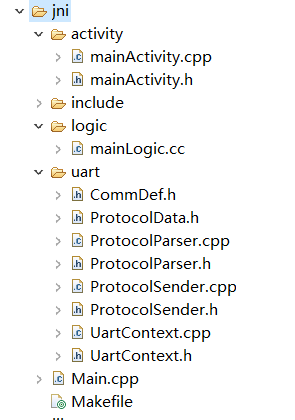
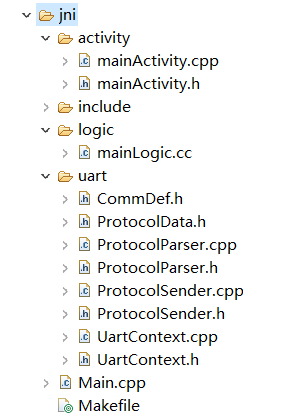
update doc
update doc

Changed region(s): [[0.061, 0.0, 0.8237, 1.0], [0.1831, 0.7794, 0.2136, 0.8106]]

diff --git a/docs/how_to_compile_flythings.md b/docs/how_to_compile_flythings.md
@@ -1,0 +1,107 @@
+---
+layout: default
+---
+# 如何编译FlyThings项目
+编译FlyThings项目十分简单。根据操作方式的不同，如下有三种方式可以编译。  
+## 1.  从项目资源管理器选择编译   
+具体步骤是： 在项目资源管理器中，左键选中需要编译的项目名，然后右键，在弹出菜单中，选择 **编译FlyThings** 选项即可自动编译该项目。  操作的动画如下：  
+
+ ![从上下文菜单选择编译](assets/compile_from_context_menu.gif)  
+## 2. 通过工具栏选择编译  
+在软件顶部的工具栏上有编译的快捷方式。 同样，先在项目资源管理器中，左键选中需要编译的项目名，然后再工具栏上找到 ![](assets/compile_from_toolbar.png) 该绿色三角符号按钮，点击它，即可编译选中的项目。
+
+## 3. 通过快捷键编译
+你可能在上面的两个步骤中，已经注意到了编译的快捷键，也就是 **Ctrl + Alt + Z**，强烈推荐使用该方式编译。 在编辑了代码后，直接 **Ctrl + Alt + Z** 快速完成编译，十分方便。
+
+
+# 如何清理项目
+在项目编译过后，通常会留下些编译的目标文件和中间文件。比如 **libs** 和 **obj**文件夹 
+，它们的存在是为了加快编译速度，达到增量编译。
+
+![](assets/mark_libs_obj.png)  
+你可以手动删除它们，或者通过菜单来自动清理。
+* 手动删除  
+ 先选中需要删除的文件夹，右键，在弹出菜单中，选择 **删除** 选项。
+ 
+ ![手动删除文件夹](assets/delete_folder.gif)
+ 
+* 自动清理  
+如果总是手动执行删除，可能会造成误操作，造成重要文件的丢失。所以，利用自动清理，可以有效避免这种情况。
+同样是先选中需要操作的项目名，右键，在弹出菜单中，选择 **清空项目** 选项。它会自动删除 **libs** 文件夹和 **obj** 文件夹里的编译中间文件。  
+推荐使用此方式来清理文件。
+
+**注意：如果编译时遇到奇怪的问题，或者遇到源码没有编译进程序的问题时，可以尝试先清理项目后，再重新编译。特别是当你导入他人的项目时，这种情况容易频发。**
+
+# 如何重新编译
+如果你想完全重新编译代码，那么你可以先清理项目后，再次编译即可
+
+
+
+
+
+# <span id = "ftu_and_source_relationships">FlyThings编译过程以及UI文件与源代码的对应关系</span>
+FlyThings 将UI与代码区分开来，方便管理。 
+下文中，UI文件是指项目 **ui** 文件夹下的 所有 **ftu** 文件。
+为了减少开发中编写重复代码，我们改进了编译过程。在真正的源码编译之前，工具会根据 UI文件生成相同前缀名的`Logic.cc` 文件，例如`main.ftu`会生成配对的`mainLogic.cc`文件，这里需要注意的是：  
+`Logic.cc`文件的生成，并不是直接覆盖，而是增量修改。  
+编译时，工具会遍历每个UI文件，读取UI文件中包含的控件。并且为这个控件声明指针变量，在代码中，通过这个指针，就可以操作对应的控件。 指针变量定义在同前缀名的 `Activity.cpp` 文件中。以**main.ftu**为例，就像这样：  
+
+![](assets/global_control_pointer.png)  
+
+**图中可以看到， 所有指针为静态全局变量；并且，你还应该注意到截图中 `#include "logic/mainLogic.cc"` 这条语句，它将 `mainLogic.cc`文件include到`mainActivity.cpp`当中，而我们的业务代码就是写在`mainLogic.cc`文件里，所以，我们可以在`mainLogic.cc`中完全使用这些控件指针。**  
+如果你对这些指针的初始化感兴趣，可以在`mainActivity`的`onCreate`方法中找到。
+
+
+现在，你大概已经知道了UI文件里的控件是如何与这些指针联系起来的。  让我们再来看看`mainLogic.cc`文件里又为我们自动生成了哪些代码。  
+如果你的UI文件中没有任何控件，那你的`mainLogic.cc`文件将是这样的:   
+```
+/**
+ * 注册定时器
+ * 在此数组中添加即可
+ */
+static S_ACTIVITY_TIMEER REGISTER_ACTIVITY_TIMER_TAB[] = {
+	//{0,  6000}, //定时器id=0, 时间间隔6秒
+	//{1,  1000},
+};
+
+static void onUI_init(){
+    //Tips :添加 UI初始化的显示代码到这里,如:mText1Ptr->setText("123");
+
+}
+
+static void onUI_quit() {
+   //Tips :添加UI退出的代码到这里
+}
+
+
+static void onProtocolDataUpdate(const SProtocolData &data) {
+    // 串口数据回调接口
+}
+
+static bool onUI_Timer(int id){
+    //Tips:添加定时器响应的代码到这里,但是需要在本文件的 REGISTER_ACTIVITY_TIMER_TAB 数组中 注册
+    //id 是定时器设置时候的标签,这里不要写耗时的操作，否则影响UI刷新,ruturn:[true] 继续运行定时器;[false] 停止运行当前定时器
+    return true;
+}
+
+
+static bool onmainActivityTouchEvent(const MotionEvent &ev) {
+    // 返回false触摸事件将继续传递到控件上，返回true表示该触摸事件在此被拦截了，不再传递到控件上
+    return false;
+}
+```
+待续
+
+
+
+
+
+
+
+
+
+
+
+
+
+

diff --git a/docs/project_structure.md b/docs/project_structure.md
@@ -6,6 +6,36 @@ layout: default
 对于一个基本的FlyThings项目，它的目录结构是这样的：  
 
 ![项目结构](assets/project_structure.png)  
-大致分为 **jni** 、**resources** 、 **ui** 三个文件夹。下面分别解释各个文件夹的作用。  
-* **jni** 文件夹  
-   该文件夹主要为存放代码文件。我们将 **jni** 文件夹展开，可以看到
+大致分为 **jni** 、**resources** 、 **ui** 三个文件夹。下面分别解释各个文件夹的作用。    
+* ## ui 文件夹  
+  展开** ui ** 文件夹   
+  
+  ![ui文件夹展开](assets/project_ui_expand.png)    
+  
+  可以看到默认包含了一个 **main.ftu** 文件。**ftu** 是**FlyThings** 项目UI文件的后缀名。每一个 **ftu** 文件对应一个应用界面。通常，一个应用包含多个界面，所以你需要在 **ui** 文件夹下创建多个 **ftu** 文件。添加新的 **ftu** 文件，可以参考 [如何新建FlyThings UI文件](new_flythings_ui_file)。 为了描述方便，以后的教程中，统一将 **ftu** 文件称为 **UI文件**。  
+  你可以双击打开 **UI文件** ，并对它进行编辑，并且可以即时预览效果。编辑 **UI** 文件的具体步骤，可以参考[控件相关](index#views)的教程。  
+  编辑结束后，你就可以开始 **“编译”**  ([如何编译](how_to_compile_flythings)）  
+  **注意： 这里所说的编译不仅仅是编译源代码，还包括对 ui文件的预处理，以及模板代码的生成等一系列处理，但是这些都是自动化的，你无需手动处理。编译这一动作背后的所有具体操作，请参考 [具体编译过程以及UI文件与源代码的对应关系](how_to_compile_flythings#ftu_and_source_relationships)，看完后，相信你会更容易理解，并且快速上手开发**
+
+* ## resources 文件夹  
+  这个文件夹的内容就比较简单，主要用来存放项目的各种资源文件，包括 图片、字体、输入法配置文件等。如果你还有其他资源文件也可以添加到该文件夹，该文件夹会完全拷贝到机器中。
+但是，由于机器自身存储空间的限制，不建议将大文件存放到该目录，更推荐你将较大的资源文件存放到SD卡中。  
+* ## jni 文件夹  
+   该文件夹主要为存放代码文件，她还包含了多个部分的代码。我们将 **jni** 文件夹展开  
+   ![](assets/project_jni_expand.png)  
+   可以看到，它包含了 **activity** 、 **include** 、**logic** 、**uart** 、**Main.cpp**、 **Makefile** 共6个部分，每个部分作用如下：  
+   * ### activity 子文件夹  
+     存放UI文件的基础类代码。每一个UI文件，经过编译后，都会生成相同前缀名的`Activity`类和`Logic.cc`文件。例如：ui文件夹下有一个 **main.ftu**，那么经过编译后，会生成 `mainActivity.h`、`mainActivity.cpp`以及`mainLogic.cc`， `mainActivity`类会存放在 **activity** 文件夹中，`mainLogic.cc`文件会存放在 **logic** 文件夹中。  
+     **强烈不推荐修改 activity 文件夹下的代码，特殊情况除外**
+   * ### logic 子文件夹   
+    存放具体的逻辑代码。与上面的描述相同，每一个UI文件在编译后都会生成相对应前缀名的 **Logic.cc** 文件，**注意：我们的自定义代码，主要就是添加在这些 Logic.cc文件中**。
+   * ### include 子文件夹
+   这里主要存放系统相关的头文件、所有控件相关的头文件。便于编译。
+   * ### uart 子文件夹  
+    顾名思义，该文件夹存放串口操作相关的代码，包括读写串口，协议解析等。
+   * ### Main.cpp
+    整个FlyThings应用的入口代码，包括选择开机的界面以及一些初始化，一般情况不需要修改该文件。
+   * ### Makefile
+    编译配置文件，包含了具体的源码编译过程，一般情况下不需要修改  
+
+在编译通过后，会在项目下生成 **libs**目录，和 **obj** 目录，它们分别是编译的目标存放目录和编译的中间文件目录，这两个都可以自行清理或者直接删除都没有关系。

diff --git a/docs/listview.md b/docs/listview.md
@@ -1,0 +1,95 @@
+---
+layout: default
+---
+[TOC]
+
+# 控件简介
+## 功能
+列表按键经常用于一个页面无法展示完成所有信息的时候使用，同时每个单元信息中存在一些一致的属性分类
+
+## 场景
+WiFi列表，设备列表，表格信息
+
+# 控件贴图方法
+## 控件介绍
+![](images/screenshot_1511508754409.png)
+列表控件包含三项内容：
+1. 列表主控件
+2. 列表项：一个列表里面包含的N个列表单元，贴图的时候只需要贴一个即可
+3. 列表子项：列表子项需要贴入到列表项目中，每个列表项可以支持5个列表子项的显示，用于实现不同内容的显示和控制部分。
+
+## 贴图方法
+1. 先吧列表空间拖入到需要放置的空间上。调整好列表的区域后设置列表区域内的列表内容显示分配：
+![](images/screenshot_1511509603864.png)
+2. 拖入列表项 到列表区域内的第一个位置
+![](images/screenshot_1511509618172.png)
+修改一下属性：
+![](images/screenshot_1511509832739.png)
+![](images/screenshot_1511509690789.png)
+3. 加入一个子项显示和一个子项的按钮
+![](images/screenshot_1511509806141.png)
+	* 按键开关:
+	![](images/screenshot_1511509870994.png)
+	* 列表子项目1文字显示：
+	![](images/screenshot_1511509882021.png)
+
+至此可以看到目标列表的一个项目的界面显示效果
+点击生成代码
+
+# 控件源码操作
+1. 按照之前的方法，设置启动页面 Main.cpp
+~~~
+const char* onStartupApp(EasyUIContext *pContext) {
+	return "tesListActivity";
+}
+~~~
+2. testListLogic.cc中添加测试用的列表数据
+~~~
+
+typedef struct{
+	const char* mainText;
+	const char* subText;
+	bool bOn;
+}S_TEST_DATA;
+static S_TEST_DATA sDataTestTab[]={
+		"测试数据1","testsub1",false,
+		"测试内容2","testsub2",false,
+		"测试数据3","testsub3",false,
+		"测试测试4","testsub4",true,
+		"测试数据5","testsub5",false,
+		"测试数据6","testsub6",true,
+		"测试数据7","testsub7",false,
+		"测试数据8","testsub8",false,
+		"测试数据9","testsub9",false,
+		"测试数据10","testsub10",false,
+		"测试数据11","testsub11",false
+};
+~~~
+3. 在处理接口代码中添加代码
+~~~
+// 返回列表数据总长度
+static int getListItemCount_List1(const ZKListView *pListView) {
+    //LOGD(" getListItemCount_ List1  !!!\n");
+	return sizeof(sDataTestTab)/sizeof(S_TEST_DATA);
+    //return 0;
+}
+// 设置对应Index上的UI显示信息
+static void obtainListItemData_List1(ZKListView *pListView,ZKListView::ZKListItem *pListItem, int index) {
+	ZKListView::ZKListSubItem* psubText = pListItem->findSubItemByID(ID_TESLIST_ListSub1);
+	ZKListView::ZKListSubItem* psubButton = pListItem->findSubItemByID(ID_TESLIST_ListSub2);
+	psubText->setText(sDataTestTab[index].subText);
+	pListItem->setText(sDataTestTab[index].mainText);
+	psubButton->setSelected(sDataTestTab[index].bOn);
+    //LOGD(" obtainListItemData_ List1  !!!\n");
+}
+
+// 点击列表的时候修改切换开关的状态。
+static void onListItemClick_List1(ZKListView *pListView, int index, int id) {
+    //LOGD(" onListItemClick_ List1  !!!\n");
+	sDataTestTab[index].bOn = !sDataTestTab[index].bOn;
+}
+~~~
+
+# Sample代码下载
+代码跟滑动进度条做到了一起：不同的项目请切换一些启动页面。
+https://gitee.com/zkswe/testSlider

diff --git a/docs/new_flythings_project.md b/docs/new_flythings_project.md
@@ -22,8 +22,8 @@ layout: default
     
    规范填写如上必须参数后，你可以直接选择 **完成** ，来快速完成创建。但是现在，我们选择 **下一步** 来自定义更多的参数。
 3. 点击下一步之后，我们将看到更多的参数定义  
-
- ![新建参数](assets/ide/wizard_new_project_page2.png)  
+  
+   ![新建参数](assets/ide/wizard_new_project_page2.png)  
  ## 项目各个属性的含义及作用：  
  * **屏保超时时间**  
    FlyThings系统提供屏保的功能。如果在指定的时间内，串口屏没有任何触摸操作，或者你没有通过代码重置屏保计时，那么，系统将自动进入屏保。  

diff --git a/docs/index.md b/docs/index.md
@@ -8,11 +8,12 @@ layout: default
 * # [初次使用FlyThings IDE集成开发工具](flythings_ide_snapshot#first_run)
 * # [FlyThings IDE工作区域使用介绍](flythings_ide_layouot_introduce)
 * # [如何新建FlyThings项目](new_flythings_project#new_flythings_project)
-* # 控件相关  
+* # <span id = "views">控件相关 </span>  
   - ## [文本](textview)  
   - ## [按键](button)
   - ## [进度条/滑块](seekbar)
   - ## [指针/仪表](pointer)
+  - ## [列表](listview)
   - ## [波形图](diagram)
   - ## [滑动窗口](slidewindow)
   - ## [圆形进度条](circlebar)

diff --git a/docs/new_flythings_ui_file.md b/docs/new_flythings_ui_file.md
@@ -1,0 +1,4 @@
+---
+layout: default
+---
+待续
